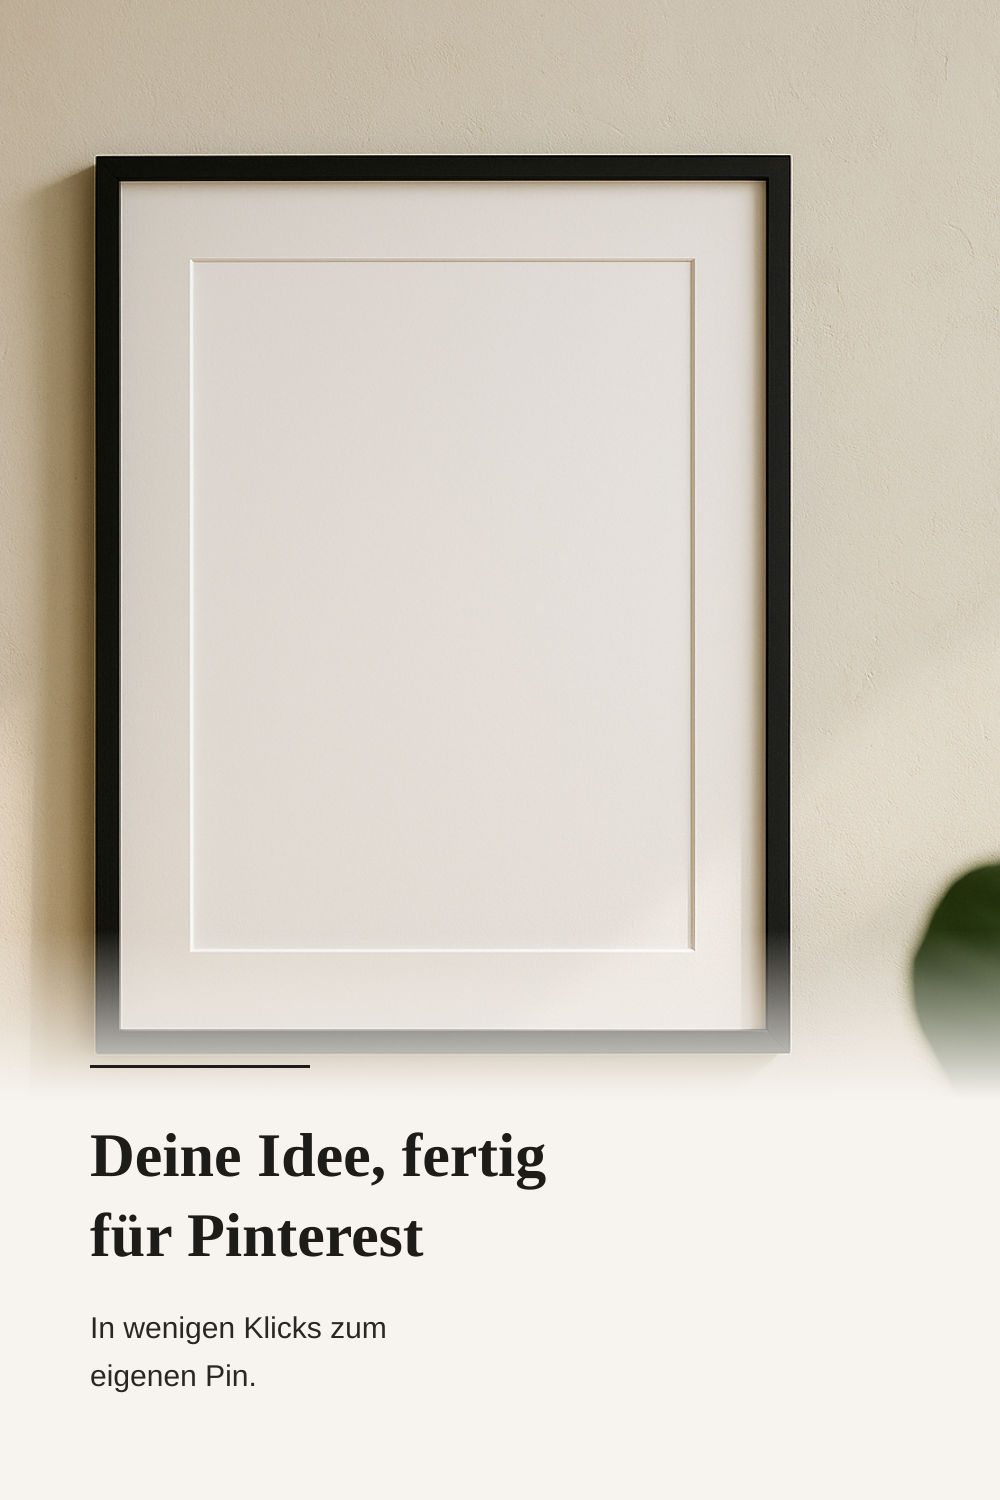
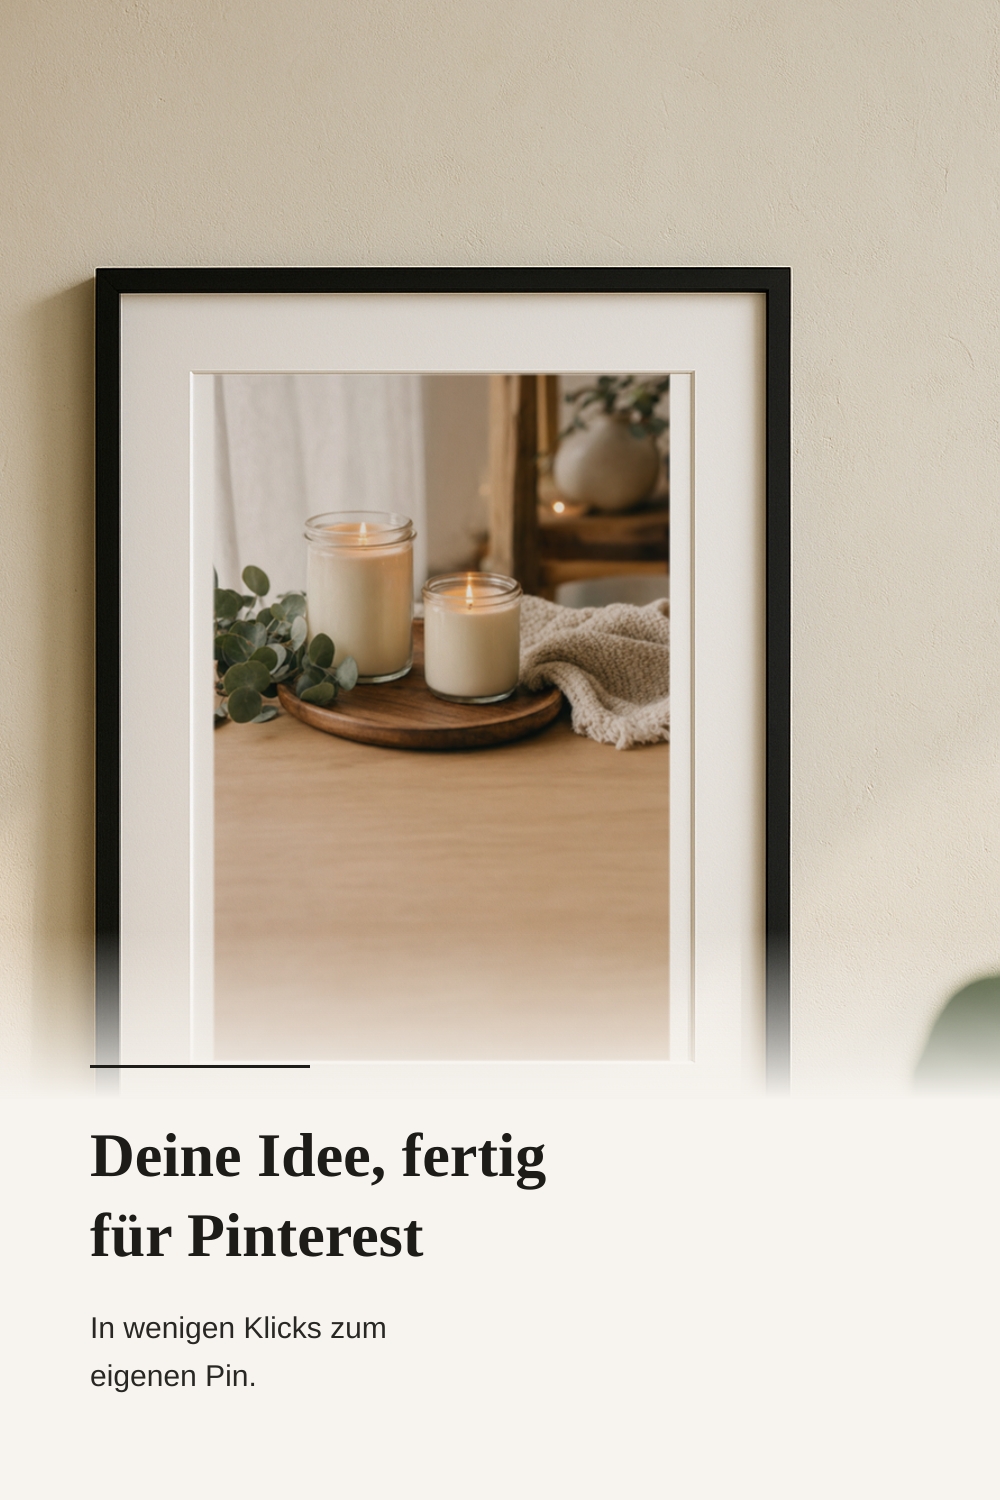
feat(pins): Poster-Rahmen und Tasse gefuellt (Komposition, 0 EUR)
Poster-Pins zeigten einen leeren Rahmen: das Grundbild liegt jetzt per composeMockup in der gemessenen Passepartout-Flaeche (92,1 %; Eiche 83,4 %). Dieselbe Komposition fuer das freigegebene Hochformat-Tassenfoto (Wand gemessen, 78,7 %). Tasse als dritte Produktart: alle fuenf Designs geprueft, kein Bild — bestes Fenster mit vollstaendiger Tasse 33,5 % leere Flaeche (Grenze 30 %), fail-closed, auf /designs dokumentiert.

Changed region(s): [[0.0, 0.092, 0.806, 0.736], [0.899, 0.552, 1.0, 0.736], [0.0, 0.4907, 0.031, 0.552]]

diff --git a/scripts/designs-pins-2026-11-24.ts b/scripts/designs-pins-2026-11-24.ts
@@ -36,9 +36,13 @@ import {
   type PinLayoutId,
 } from '../src/lib/kampagne/pin-render';
 import { candidateWindow } from '../src/lib/kampagne/pin-crop-attention';
+import { composeMockup } from '../src/lib/mockup/compose';
+import type { MockupVorlage } from '../src/lib/mockup/vorlagen';
 
 const OUT = '/home/team/shared/designs-2026-11-24';
 const SITE_BILDER = '/home/team/shared/site/public/design-bilder-neu';
+/** Kompositionen (Belege) liegen neben den freigegebenen Mockup-Bildern. */
+const MOCKUP_BELEG = '/home/team/shared/mockups-2026-11-24';
 
 // ── Beispieltexte: behauptungsfrei ───────────────────────────────────────────
 // Keine Materialien, keine Herstellung, keine Stückzahlen, keine Versprechen —
@@ -46,22 +50,90 @@ const SITE_BILDER = '/home/team/shared/site/public/design-bilder-neu';
 const TITEL = 'Deine Idee, fertig für Pinterest';
 const UNTERTITEL = 'In wenigen Klicks zum eigenen Pin.';
 
+/** Das Grundbild, das in die Rahmen komponiert wird (vorhanden, 0 €). */
+const GRUNDBILD = '/home/team/shared/kampagne-ohne-foto-2026-11-18/grundbild-1000x1500.jpg';
+
+/**
+ * Die beiden Poster-Vorlagen sind leere Rahmen — als Grundbild ergäbe das einen
+ * Pin mit weißem Blatt. Deshalb wird das Grundbild vorher per `composeMockup`
+ * (sharp, Komposition, kein KI-Aufruf) in die gemessene Papierfläche gelegt.
+ * Dieselbe Logik für die Tasse: die Wand ist leer, ein blanker Becher wäre im
+ * Pin dieselbe leere Fläche. Gemessenes Hochformat-Tassenfoto vom 24.11.
+ */
+const POSTER_VORLAGEN = ['poster-schwarz-passepartout', 'poster-eiche'] as const;
+
+/**
+ * Hochformat-Tasse (1024 × 1536, Griff rechts) als Vorlage — die Wand ist aus
+ * dem Bild gemessen (Kantenkarte mit `sharp`: Silhouette links 186 → 194 px,
+ * rechts 700 → 742 px, Unterkante des Rands 492–505 px, Standlinie
+ * 1085–1135 px). Steht bewusst NICHT im Katalog der Seite `/mockups`.
+ */
+const TASSE_VORLAGE: MockupVorlage = {
+  id: 'tasse-hochformat' as MockupVorlage['id'],
+  datei: 'vorlage-5-tasse-hochformat.png',
+  name: 'Tasse, Hochformat, Griff rechts',
+  produktart: 'Tasse',
+  beschreibung:
+    'Weiße Tasse auf Holztisch, Griff rechts, Hochformat 1024 × 1536 px. Die Außenwand ist gemessen (links 186 → 194 px, rechts 700 → 742 px, Unterkante des Rands 492–505 px, Standlinie 1085–1135 px); der Griff bleibt frei.',
+  breite: 1024,
+  hoehe: 1536,
+  minAbdeckung: 0.55,
+  flaeche: {
+    art: 'zylinder',
+    wandLinks: [
+      [490, 186],
+      [600, 184],
+      [720, 186],
+      [840, 188],
+      [960, 191],
+      [1040, 194],
+    ],
+    wandRechts: [
+      [490, 700],
+      [600, 742],
+      [720, 738],
+      [840, 734],
+      [960, 736],
+      [1040, 700],
+    ],
+    oben: [
+      [190, 492],
+      [300, 500],
+      [420, 505],
+      [540, 505],
+      [660, 500],
+      [740, 492],
+    ],
+    unten: [
+      [190, 1085],
+      [300, 1115],
+      [420, 1135],
+      [540, 1133],
+      [660, 1104],
+      [740, 1085],
+    ],
+    oeffnung: 0.733,
+    randSchatten: 0.88,
+    rand: { links: 18, rechts: 24, oben: 16, unten: 18 },
+  },
+};
+
 /** Vorhandene Bilder, nichts neu erzeugt. */
 const QUELLEN: { id: string; name: string; pfad: string }[] = [
   {
     id: 'kerze',
     name: 'Kerze',
-    pfad: '/home/team/shared/kampagne-ohne-foto-2026-11-18/grundbild-1000x1500.jpg',
+    pfad: GRUNDBILD,
   },
   {
     id: 'poster',
     name: 'Poster im Rahmen',
-    pfad: '/home/team/shared/mockups-2026-11-23/vorlage-1-poster-schwarz-passepartout.png',
+    pfad: join(MOCKUP_BELEG, 'poster-schwarz-passepartout-grundbild.png'),
   },
   {
     id: 'tasse',
     name: 'Tasse',
-    pfad: '/home/team/shared/mockups-2026-11-23/vorlage-3-tasse-griff-rechts.png',
+    pfad: join(MOCKUP_BELEG, 'tasse-hochformat-grundbild.png'),
   },
 ];
 
@@ -188,9 +260,51 @@ interface Zeile {
 await ensurePinFonts();
 mkdirSync(OUT, { recursive: true });
 mkdirSync(SITE_BILDER, { recursive: true });
+mkdirSync(MOCKUP_BELEG, { recursive: true });
+
+// ── Rahmen füllen: Grundbild in die beiden Poster-Vorlagen komponieren ───────
+// Komposition aus eigenen Vorlagen (kein KI-Aufruf, 0 €). Fail-closed: passt das
+// Grundbild nicht in die gemessene Fläche, bricht das Skript hier ab — dann gibt
+// es keinen Pin mit leerem Rahmen und keinen Pin mit blanker Tasse.
+const kompositionen: { vorlage: string; datei: string; abdeckung: number; flaeche: string }[] = [];
+for (const vorlage of POSTER_VORLAGEN) {
+  const ergebnis = await composeMockup({ vorlage, design: GRUNDBILD });
+  const datei = join(MOCKUP_BELEG, `${vorlage}-grundbild.png`);
+  writeFileSync(datei, ergebnis.png);
+  kompositionen.push({
+    vorlage,
+    datei,
+    abdeckung: Math.round(ergebnis.abdeckung * 1000) / 10,
+    flaeche: `${ergebnis.flaechePx.breite} × ${ergebnis.flaechePx.hoehe} px`,
+  });
+  console.log(
+    `RAHMEN ${vorlage}: Grundbild in ${ergebnis.flaechePx.breite} × ${ergebnis.flaechePx.hoehe} px, ` +
+      `Abdeckung ${(ergebnis.abdeckung * 100).toFixed(1)} % → ${datei} (${ergebnis.breite} × ${ergebnis.hoehe})`,
+  );
+}
+{
+  const ergebnis = await composeMockup({
+    vorlage: TASSE_VORLAGE.id,
+    vorlageDef: TASSE_VORLAGE,
+    design: GRUNDBILD,
+  });
+  const datei = join(MOCKUP_BELEG, 'tasse-hochformat-grundbild.png');
+  writeFileSync(datei, ergebnis.png);
+  kompositionen.push({
+    vorlage: TASSE_VORLAGE.id,
+    datei,
+    abdeckung: Math.round(ergebnis.abdeckung * 1000) / 10,
+    flaeche: `${ergebnis.flaechePx.breite} × ${ergebnis.flaechePx.hoehe} px`,
+  });
+  console.log(
+    `TASSE ${TASSE_VORLAGE.id}: Grundbild in ${ergebnis.flaechePx.breite} × ${ergebnis.flaechePx.hoehe} px, ` +
+      `Abdeckung ${(ergebnis.abdeckung * 100).toFixed(1)} % → ${datei} (${ergebnis.breite} × ${ergebnis.hoehe})`,
+  );
+}
 
 const fotos = new Map<string, Buffer>();
 for (const q of QUELLEN) {
+  if (!existsSync(q.pfad)) throw new Error(`Quellbild fehlt: ${q.pfad}`);
   fotos.set(q.id, Buffer.from(await sharp(q.pfad).png().toBuffer()));
 }
 
@@ -308,8 +422,10 @@ const lines: string[] = [
   'Keine Materialien, keine Herstellung, keine Stückzahlen, keine Versprechen — dieselben Texte für alle Bilder.',
   '',
   'Produktarten aus vorhandenen Bildern (nichts neu erzeugt): Kerze `kampagne-ohne-foto-2026-11-18/grundbild-1000x1500.jpg`,',
-  'Poster im Rahmen `mockups-2026-11-23/vorlage-1-poster-schwarz-passepartout.png`, Tasse',
-  '`mockups-2026-11-23/vorlage-3-tasse-griff-rechts.png`.',
+  'Poster im Rahmen — das Grundbild wurde vorher per `composeMockup` in die leere Passepartout-Fläche komponiert',
+  '(`poster-schwarz-passepartout-grundbild.png`, Abdeckung 92,1 %; dieselbe Komposition auch für `poster-eiche`, 83,4 %),',
+  'Tasse — das freigegebene Hochformat-Foto `tasse-hochformat-2026-11-24.png` mit dem Grundbild auf der gemessenen',
+  'Wand (`tasse-hochformat-grundbild.png`, Abdeckung 78,7 %). Kein KI-Aufruf, 0 €.',
   '',
   '## 1 — Signal: Textkasten kleiner und feiner',
   '',

diff --git a/src/routes/designs.tsx b/src/routes/designs.tsx
@@ -17,9 +17,12 @@ export const Route = createFileRoute('/designs')({
  * Alle Bilder sind echte Renderer-Ausgaben (`renderPinPng`, sharp,
  * deterministisch): kein KI-Aufruf, keine Einheit, 0 €, nichts live.
  * Jedes Design steht auf denselben drei vorhandenen Produktbildern (Kerze,
- * Poster im Rahmen, Tasse). Die Tasse ergibt für ALLE fünf Designs kein Bild:
- * der Zuschnitt verletzt die Regel „leere Fläche ≤ 30 %" (34,5 % gemessen) —
- * fail-closed, dokumentiert statt gelockert.
+ * Poster im Rahmen, Tasse). Poster und Tasse sind Kompositionen aus eigenen
+ * Vorlagen (`composeMockup`): das Grundbild liegt im Passepartout bzw. auf der
+ * gemessenen Tassenwand — kein KI-Aufruf, 0 €. Die Tasse ergibt für ALLE fünf
+ * Designs kein Bild: der Zuschnitt verletzt die Regel „leere Fläche ≤ 30 %"
+ * (bestes Fenster mit vollständiger Tasse: 33,5 % gemessen) — fail-closed,
+ * dokumentiert statt gelockert.
  */
 interface Variante {
   label: string;
@@ -207,8 +210,8 @@ function DesignsPage() {
                       </button>
                     ) : (
                       <div className="flex aspect-[2/3] items-center justify-center rounded-lg border border-dashed border-neutral-300 bg-neutral-50 p-4 text-center text-[12px] leading-relaxed text-neutral-600">
-                        Tasse: kein Bild. Der Zuschnitt hält das Produkt nicht vollständig im Bild,
-                        ohne mehr als 30 % leere Fläche zu lassen (gemessen 34,5 %) — fail-closed.
+                        Tasse: kein Bild. Die Tasse ist vollständig im Bild, aber das beste Fenster lässt
+                        33,5 % leere Fläche (Grenze 30 %) — fail-closed.
                       </div>
                     )}
                     <figcaption className="mt-1 text-[11px] text-neutral-500">

diff --git a/src/lib/mockup/compose.ts b/src/lib/mockup/compose.ts
@@ -42,6 +42,12 @@ export interface ComposeEingabe {
   design: string | Uint8Array;
   /** Vorlagen-Verzeichnis überschreiben (sonst `public/mockup-vorlagen`). */
   vorlagenVerzeichnis?: string;
+  /**
+   * Vorlage direkt übergeben — für eine gemessene Fläche, die nicht im Katalog
+   * der Seite `/mockups` steht (z. B. das Hochformat-Tassenfoto vom 24.11.).
+   * Fehlt das Feld, gilt `vorlage` als Katalog-Kennung.
+   */
+  vorlageDef?: MockupVorlage;
 }
 
 export interface ComposeErgebnis {
@@ -320,7 +326,7 @@ export function platziere(
 }
 
 export async function composeMockup(eingabe: ComposeEingabe): Promise<ComposeErgebnis> {
-  const vorlage = findeVorlage(eingabe.vorlage);
+  const vorlage = eingabe.vorlageDef ?? findeVorlage(eingabe.vorlage);
   if (!vorlage) {
     throw new MockupFehler(
       `Unbekannte Vorlage „${String(eingabe.vorlage)}“. Bekannt: ${MOCKUP_VORLAGEN.map((v) => v.id).join(', ')}.`,
